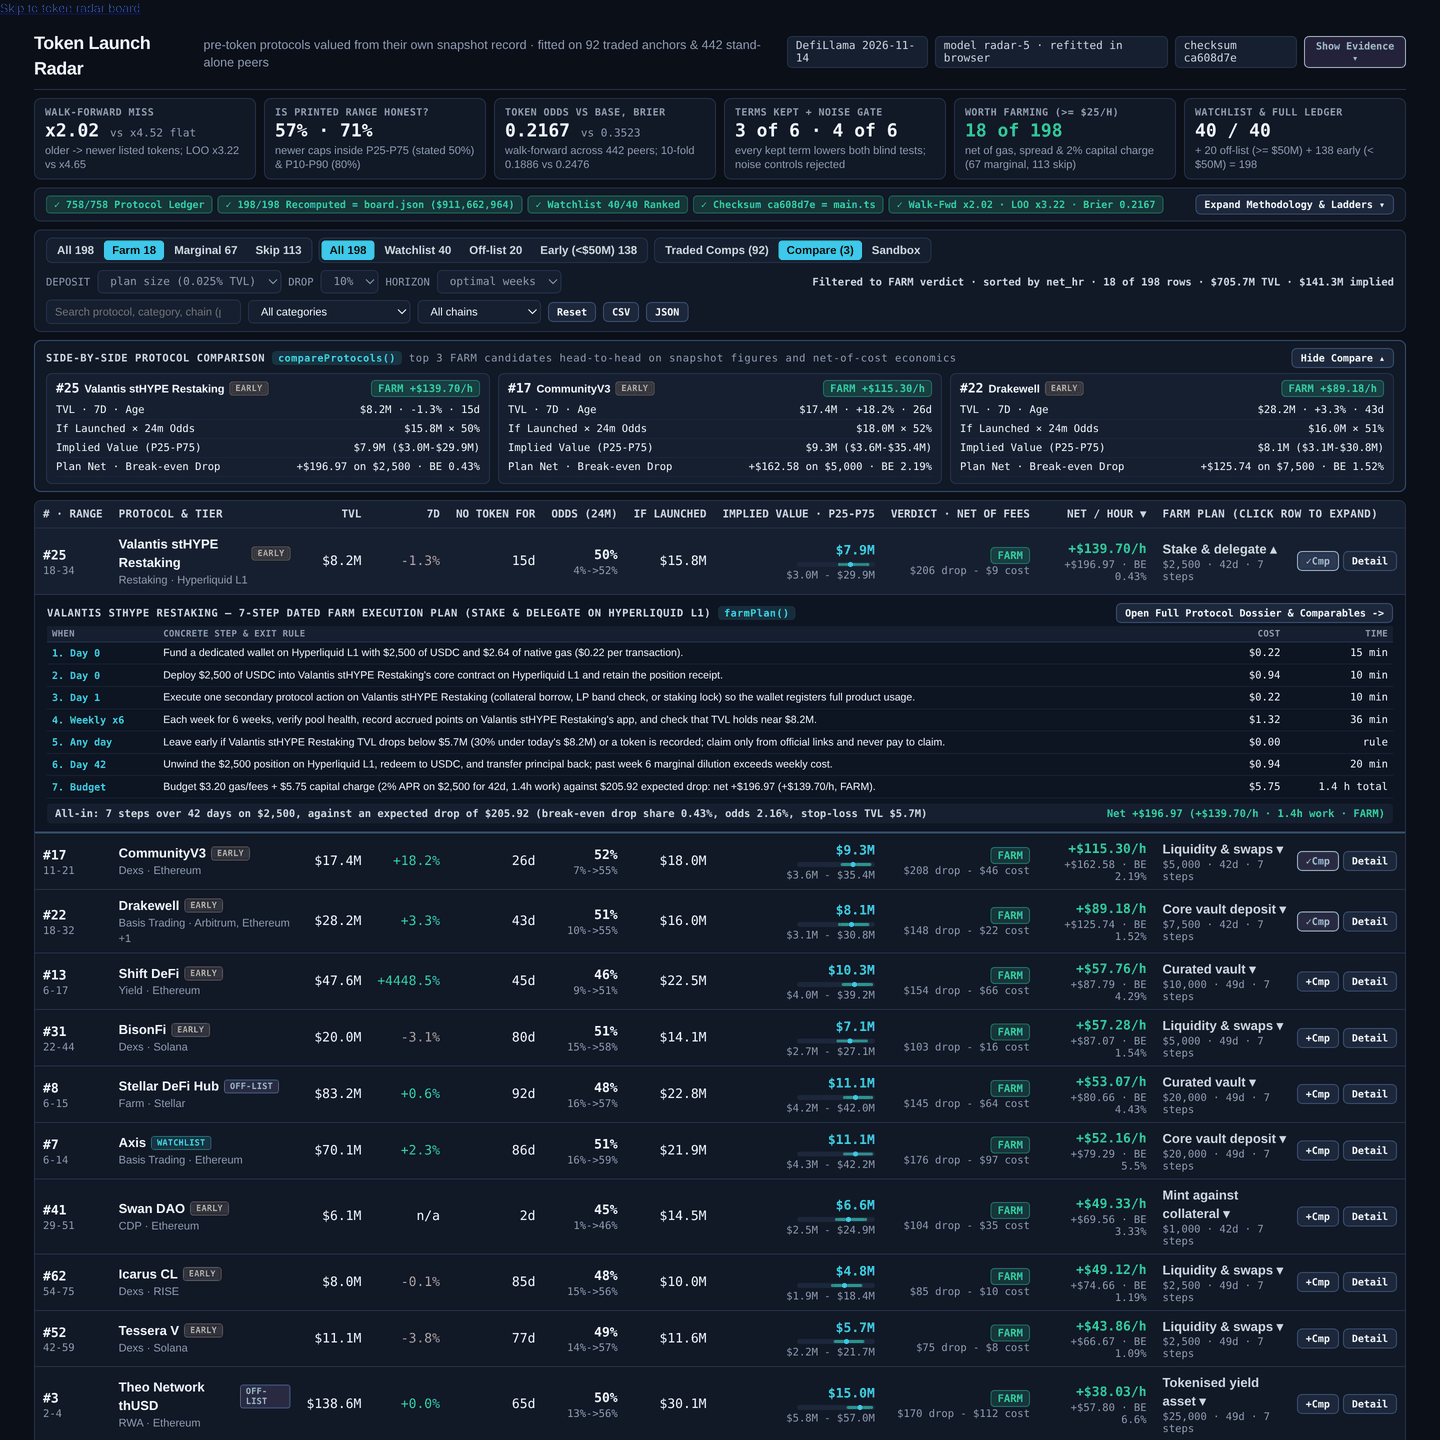
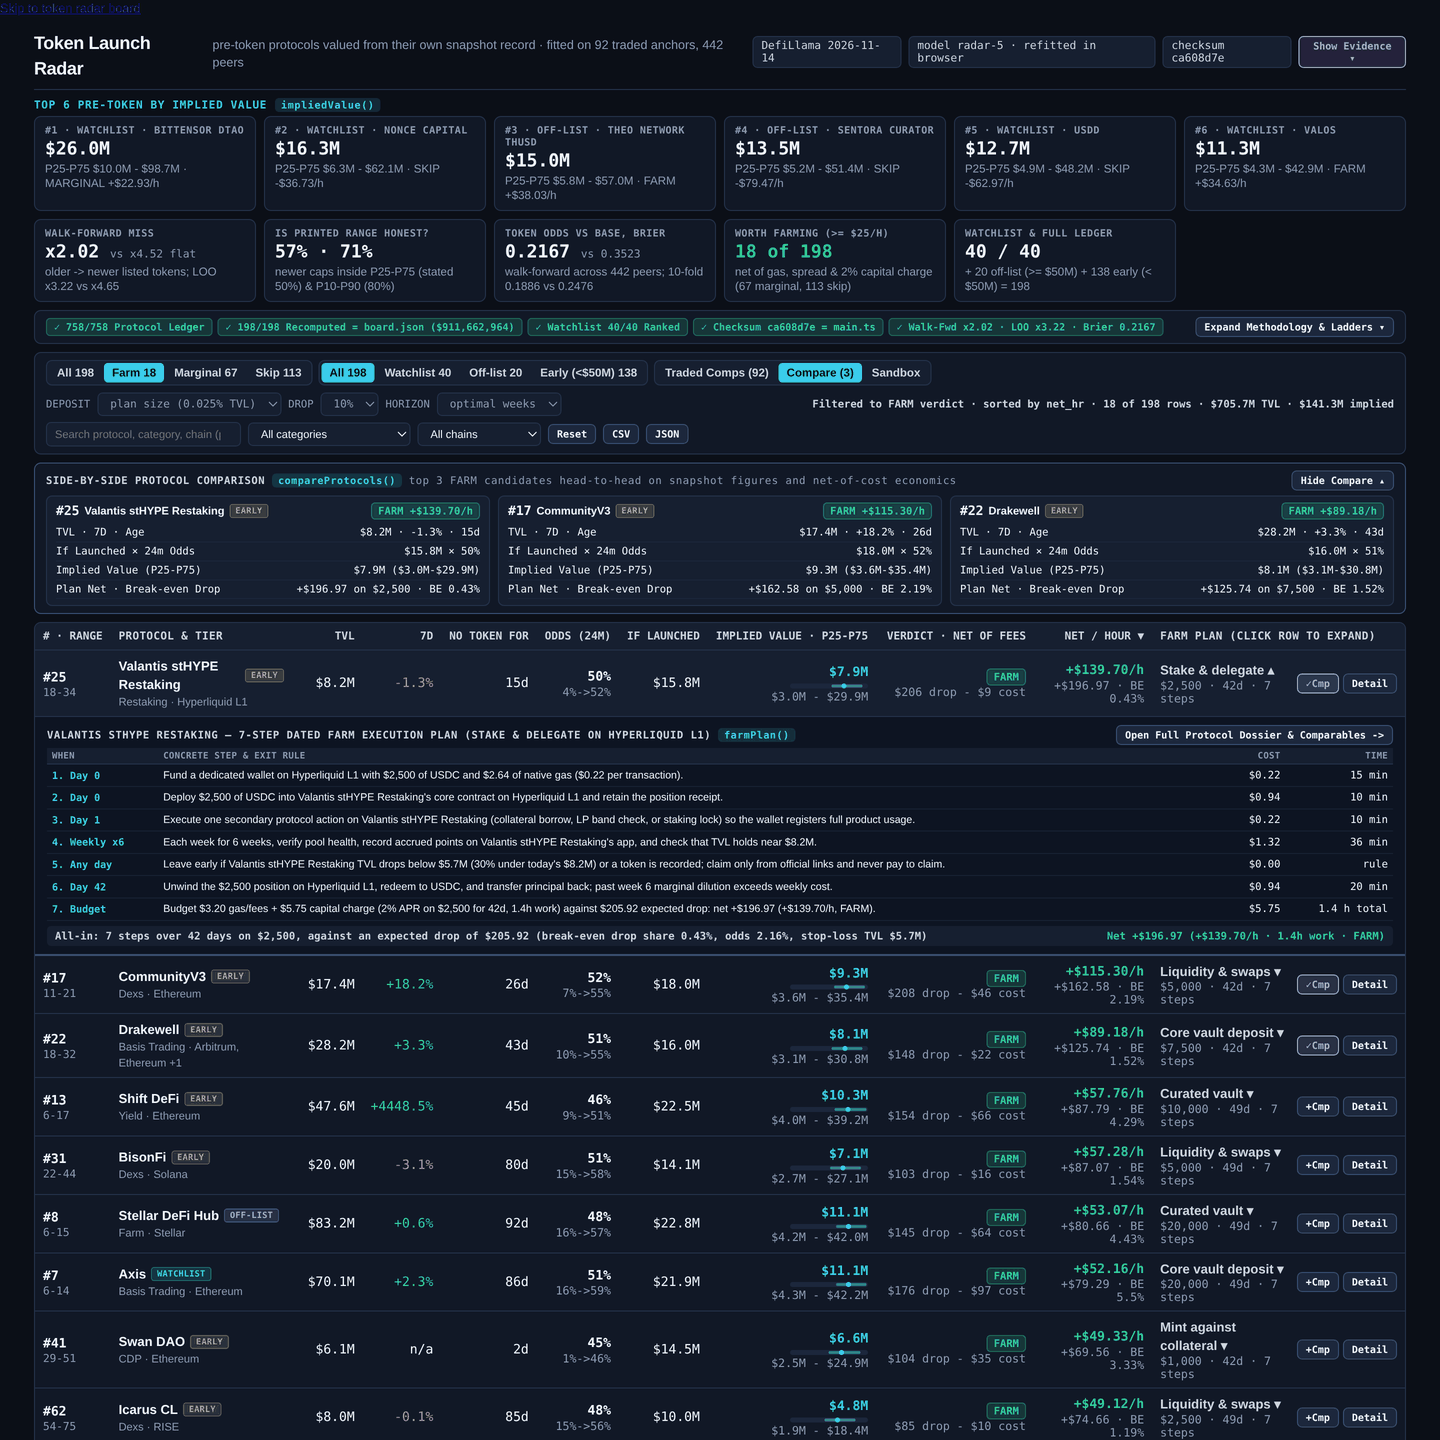
feat(radar-6): top-6 implied-value headline strip above the fold, larger sub-mono type, trimmed prose to hold the dossier cap

diff --git a/dashboard/app.js b/dashboard/app.js
@@ -272,12 +272,26 @@ function topbar() {
   return el('header', { class: 'topbar' },
     el('div', { class: 'brand-row' },
       el('span', { class: 'brand-title', text: 'Token Launch Radar' }),
-      el('span', { class: 'brand-sub', text: 'pre-token protocols valued from their own snapshot record · fitted on 92 traded anchors & 442 stand-alone peers' })),
+      el('span', { class: 'brand-sub', text: 'pre-token protocols valued from their own snapshot record · fitted on 92 traded anchors, 442 peers' })),
     el('div', { class: 'top-meta' },
       el('span', { class: 'meta-pill', text: 'DefiLlama ' + D.as_of }),
       el('span', { class: 'meta-pill', text: 'model ' + D.model_version + ' · refitted in browser' }),
       el('span', { class: 'meta-pill', text: 'checksum ' + D.board_checksum }),
       btn(S.compact ? 'Show Evidence ▾' : 'Compact View ▴', function () { S.compact = !S.compact; render(); }, 'action-btn', S.compact)));
+}
+
+function headline() {
+  var top = D.rows.slice(0, 6);
+  function card(r) {
+    var fp = farmPlan(r);
+    return el('div', { class: 'kpi-card hl-card', onclick: function () { S.view = 'detail'; S.slug = r.slug; render(); } },
+      el('span', { class: 'kpi-head', text: '#' + r.rank + ' · ' + (r.tier === 'watchlist' ? 'WATCHLIST' : r.tier === 'offlist' ? 'OFF-LIST' : 'EARLY') + ' · ' + r.name }),
+      el('div', { class: 'kpi-val', text: usd(r.implied_value_usd) }),
+      el('span', { class: 'kpi-sub', text: 'P25-P75 ' + usd(r.p25_usd) + ' - ' + usd(r.p75_usd) + ' · ' + fp.verdict + ' ' + susd(fp.net_per_hour_usd) + '/h' }));
+  }
+  return el('section', null,
+    el('div', { class: 'hl-title' }, el('span', { text: 'TOP 6 PRE-TOKEN BY IMPLIED VALUE' }), el('span', { class: 'fn-tag', text: 'impliedValue()' })),
+    el('section', { class: 'kpi-grid hl-grid' }, top.map(card)));
 }
 
 function kpis() {
@@ -292,8 +306,6 @@ function kpis() {
       'newer caps inside P25-P75 (stated 50%) & P10-P90 (80%)'),
     card('Token Odds vs Base, Brier', el('div', { class: 'kpi-val' }, fO.wf_brier.toFixed(4) + ' ', el('span', { class: 'vs', text: 'vs ' + bO.wf_brier.toFixed(4) })),
       'walk-forward across 442 peers; 10-fold ' + fO.tenfold_brier.toFixed(4) + ' vs ' + bO.tenfold_brier.toFixed(4)),
-    card('Terms Kept + Noise Gate', el('div', { class: 'kpi-val', text: '3 of 6 · 4 of 6' }),
-      'every kept term lowers both blind tests; noise controls rejected'),
     card('Worth Farming (>= $25/h)', el('div', { class: 'kpi-val', style: 'color:var(--green)', text: c.FARM + ' of ' + D.board_size }),
       'net of gas, spread & 2% capital charge (' + c.MARGINAL + ' marginal, ' + c.SKIP + ' skip)'),
     card('Watchlist & Full Ledger', el('div', { class: 'kpi-val', text: D.watchlist_size + ' / ' + D.watchlist_size }),
@@ -318,14 +330,12 @@ function accounting(a) {
     el('div', { class: 'formula-banner', text:
       'impliedValue(row) = launchValue(row) × launchOdds(row).  launchValue = exp(' + f.intercept_ln_cap + ' + ' + f.slope_ln_tvl +
       '·ln(TVL/$100M) ' + f.slope_ln_chains + '·ln(chains) ' + f.slope_ln_age_yrs + '·ln(years_listed))  [$' +
-      (f.base_cap_at_100m_usd / 1e6).toFixed(2) + 'M at $100M TVL].  launchOdds = (F(t+2y) - F(t)) / (1 - F(t)) from peer age, category token rate, TVL and 7-day growth.' }),
+      (f.base_cap_at_100m_usd / 1e6).toFixed(2) + 'M at $100M TVL].  launchOdds = (F(t+2y)-F(t))/(1-F(t)) from peer age, category rate, TVL and 7-day growth.' }),
     el('div', { class: 'sec-head' },
       el('div', { class: 'sec-title' }, el('span', { text: 'PROTOCOL ACCOUNTING' }), el('span', { class: 'fn-tag', text: 'ledgerOf()' }),
         el('span', { style: 'text-transform:none;font-weight:400;color:var(--muted)', text:
-          'all ' + L.total_protocols + ' snapshot protocols in exactly one group: ' + L.ranked_total + ' ranked pre-token, ' +
-          L.token_all_records + ' already record a token (' + L.token_traded_comps + ' stand-alone priced comps), ' + L.out_no_token +
-          ' tokenless excluded by house rules (' + L.out_no_token_bridge + ' bridge, ' + L.out_no_token_staking + ' staking, ' +
-          L.out_no_token_exchange + ' exchange, ' + L.out_no_token_versioned + ' versioned/wrapped)' }))),
+          L.total_protocols + ' protocols, each in one group: ' + L.ranked_total + ' ranked pre-token, ' +
+          L.token_all_records + ' recording a token (' + L.token_traded_comps + ' priced comps), ' + L.out_no_token + ' tokenless by house rule' }))),
     el('div', { class: 'acct-bar' }, ac.groups.map(function (g) {
       return el('div', { class: 'acct-seg', style: 'width:' + ((g.count / ac.total) * 100).toFixed(2) + '%;background:' + g.color, title: g.label + ': ' + g.count });
     })),
@@ -336,10 +346,8 @@ function accounting(a) {
     el('div', { class: 'integrity-strip' },
       el('span', { class: 'chk-pill', text: '✓ this table = board.json: ' + a.matched + ' of ' + a.total + ' rows recomputed here' }),
       el('span', { class: 'chk-pill', text: '✓ ranks 1-' + a.total + ' in order, values never rise' }),
-      el('span', { class: 'chk-pill', text: '✓ totals equal: $' + a.sumImplied.toLocaleString('en-US') }),
-      el('span', { class: 'chk-pill', text: '✓ checksum ' + a.checksum + ' = main.ts' }),
-      el('span', { class: 'chk-pill', text: '✓ watchlist ' + D.watchlist_size + ' of ' + D.watchlist_size + ' ranked' }),
-      el('span', { class: 'chk-pill', text: '✓ ledger ' + L.total_protocols + ' of ' + L.total_protocols + ' protocols' }),
+      el('span', { class: 'chk-pill', text: '✓ total $' + a.sumImplied.toLocaleString('en-US') + ' · checksum ' + a.checksum + ' = main.ts' }),
+      el('span', { class: 'chk-pill', text: '✓ watchlist ' + D.watchlist_size + ' of ' + D.watchlist_size + ' · ledger ' + L.total_protocols + ' protocols' }),
       el('span', { class: 'chk-pill', text: '✓ ' + D.board_size + ' plans × 7 costed, timed steps · 0 protocol names in code' })));
 }
 
@@ -366,16 +374,16 @@ function evidence() {
   return el('section', { class: 'evidence-grid' },
     el('div', { class: 'ev-card' },
       el('div', { class: 'sec-title' }, el('span', { text: '1. Value if a token launches' }), el('span', { class: 'fn-tag', text: 'valueLadder()' })),
-      el('div', { class: 'ev-sub', text: 'Kept only when it lowers BOTH leave-one-out and walk-forward miss across 92 priced comps' }),
+      el('div', { class: 'ev-sub', text: 'Kept only if it lowers both blind misses across 92 comps' }),
       ladderTable(valueLadder(f), 'v'),
       el('div', { class: 'ev-foot', text: 'Fitted ± bootstrap s.e. (' + se.refits + ' refits): $100M base $' + (f.base_cap_at_100m_usd / 1e6).toFixed(1) +
         'M; ln(TVL) +' + f.slope_ln_tvl + ' ± ' + se.slope_tvl_se + '; ln(chains) ' + f.slope_ln_chains + ' ± ' + se.slope_chains_se +
         '; ln(age) ' + f.slope_ln_age_yrs + ' ± ' + se.slope_age_se + '.' })),
     el('div', { class: 'ev-card' },
       el('div', { class: 'sec-title' }, el('span', { text: '2. Token launch odds (24m hazard)' }), el('span', { class: 'fn-tag', text: 'oddsLadder()' })),
-      el('div', { class: 'ev-sub', text: 'Out-of-sample Brier across 442 stand-alone peers (244 with a token, 198 pre-token)' }),
+      el('div', { class: 'ev-sub', text: 'Out-of-sample Brier across 442 peers (244 with a token, 198 pre-token)' }),
       ladderTable(oddsLadder(f), 'o'),
-      el('div', { class: 'ev-foot', text: '7-day growth fails the LOO test on market-cap pricing, so valueLadder() drops it; it lowers both Brier scores in oddsLadder(), so launchOdds() keeps it.' })),
+      el('div', { class: 'ev-foot', text: '7-day growth fails the LOO test, so valueLadder() drops it; it lowers both Brier scores in oddsLadder(), so launchOdds() keeps it.' })),
     el('div', { class: 'ev-card' },
       el('div', { class: 'sec-title' }, el('span', { text: '3. Range honesty & peer cohort record' }), el('span', { class: 'fn-tag', text: 'rangeOf()' })),
       el('table', { class: 'ev-table' },
@@ -709,6 +717,7 @@ function render() {
   root.innerHTML = '';
   var w = el('div', { class: 'wrap' });
   w.appendChild(topbar());
+  if (S.view !== 'detail') w.appendChild(headline());
   if (S.view === 'detail') {
     w.appendChild(detailView());
   } else {

diff --git a/dashboard/app.css b/dashboard/app.css
@@ -10,12 +10,14 @@ button{cursor:pointer;background:none;border:none}
 .brand-sub{font-size:12.5px;color:var(--muted)}
 .top-meta{display:flex;gap:7px;align-items:center;font:500 11px var(--mono);color:var(--ink-dim)}
 .meta-pill{background:var(--surface-2);border:1px solid var(--border);padding:2.5px 8px;border-radius:5px}
+.hl-title{display:flex;gap:8px;align-items:baseline;margin:0 0 4px;font:700 11px var(--mono);letter-spacing:.06em;color:var(--accent)}
+.hl-card{cursor:pointer;border-top:2px solid var(--accent)}
 .kpi-grid{display:grid;grid-template-columns:repeat(6,1fr);gap:8px;margin-bottom:8px}
 .kpi-card{background:var(--surface);border:1px solid var(--border);border-radius:7px;padding:7px 10px;display:flex;flex-direction:column;gap:1px}
 .kpi-head{font:600 10px/1.2 var(--mono);text-transform:uppercase;letter-spacing:.04em;color:var(--muted)}
 .kpi-val{font:700 18px/1.2 var(--mono);margin:1px 0}
 .kpi-val .vs{font-size:11px;font-weight:500;color:var(--muted)}
-.kpi-sub{font-size:11px;line-height:1.28;color:var(--muted)}
+.kpi-sub{font-size:11.5px;line-height:1.28;color:var(--muted)}
 .panel-box{background:var(--surface);border:1px solid var(--border);border-radius:7px;padding:8px 11px;margin-bottom:8px}
 .sec-head{display:flex;justify-content:space-between;align-items:center;margin-bottom:5px}
 .sec-title{font:700 10.5px var(--mono);text-transform:uppercase;letter-spacing:.05em;color:var(--ink-dim);display:flex;align-items:center;gap:7px}
@@ -33,7 +35,7 @@ button{cursor:pointer;background:none;border:none}
 .ev-card{background:var(--surface);border:1px solid var(--border);border-radius:7px;padding:8px 10px}
 .ev-sub{font-size:11px;color:var(--muted);margin-bottom:4px}
 .ev-table{width:100%;border-collapse:collapse;font-size:11.5px}
-.ev-table th{text-align:left;font:600 10px var(--mono);text-transform:uppercase;color:var(--muted);padding:3px 4px;border-bottom:1px solid var(--border)}
+.ev-table th{text-align:left;font:600 10.5px var(--mono);text-transform:uppercase;color:var(--muted);padding:3px 4px;border-bottom:1px solid var(--border)}
 .ev-table td{padding:2.8px 4px;border-bottom:1px solid rgba(36,50,74,.5)}
 .ev-table th.num,.ev-table td.num{text-align:right;font-family:var(--mono)}
 .ev-table tr.row-drop td{color:var(--muted)}
@@ -64,7 +66,7 @@ button{cursor:pointer;background:none;border:none}
 .board-table tr.data-row:hover,.board-table tr.data-row[data-expanded="true"]{background:var(--surface-2);cursor:pointer}
 .th-btn{font:inherit;color:inherit;text-transform:inherit}
 .rk-num{font:700 13px var(--mono)}
-.rk-band{font:400 10.5px var(--mono);color:var(--muted);display:block}
+.rk-band{font:400 11px var(--mono);color:var(--muted);display:block}
 .proto-main{display:flex;align-items:center;gap:5px;font-weight:600}
 .proto-sub{font-size:11px;color:var(--muted);display:block}
 .wh-track{position:relative;width:78px;height:5px;background:var(--surface-3);border-radius:3px;margin:2px 0 2px auto}
@@ -80,7 +82,7 @@ button{cursor:pointer;background:none;border:none}
 .v-SKIP{color:var(--muted);background:var(--surface-3);border:1px solid var(--border)}
 .pos{color:var(--green)}
 .neg{color:var(--red)}
-.sub-mono{font:400 10.5px var(--mono);color:var(--muted);display:block}
+.sub-mono{font:400 11.5px var(--mono);color:var(--muted);display:block}
 .expand-row td{background:#0d1422;padding:8px 12px;border-bottom:2px solid var(--border-hi)}
 .steps-table{width:100%;border-collapse:collapse;font-size:10.5px;margin-top:3px}
 .steps-table th{text-align:left;font:600 9px var(--mono);color:var(--muted);padding:2.5px 5px;border-bottom:1px solid var(--border)}
